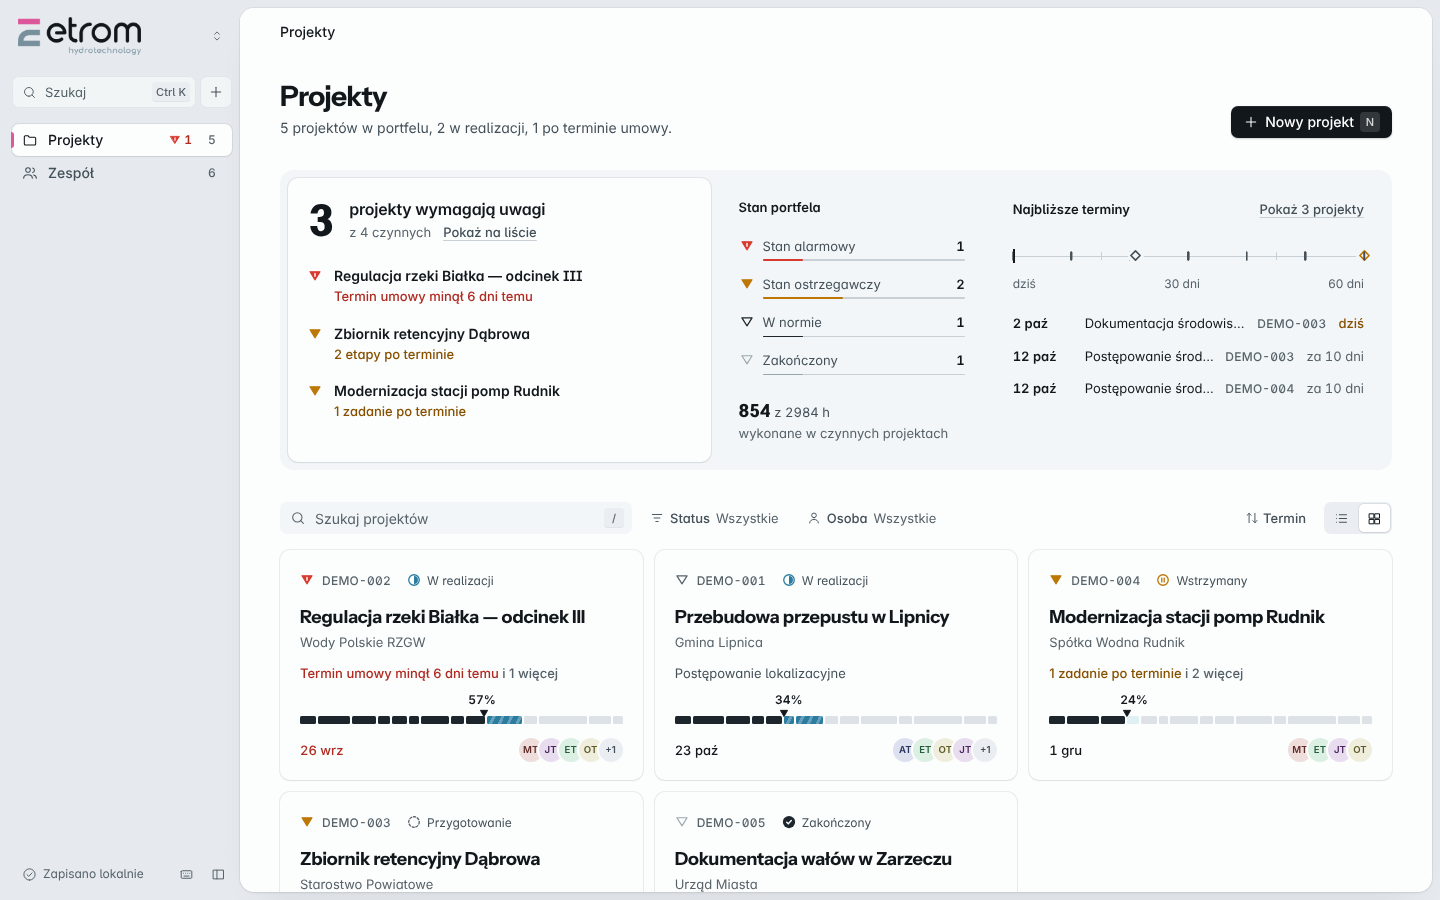
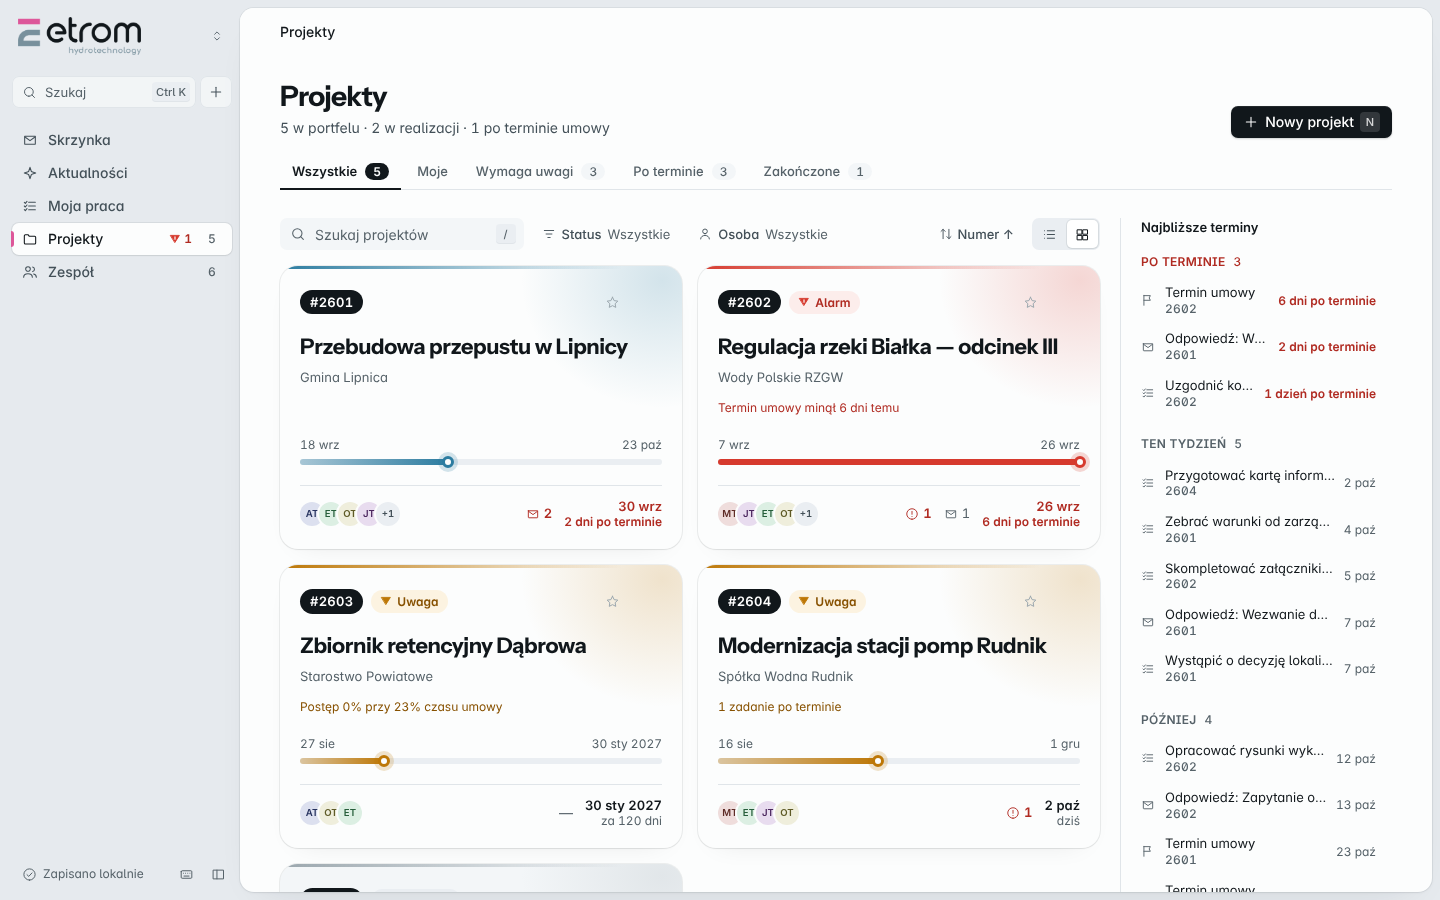
Karty projektów: plakietka numeru, poświata stanu, wstęga czasu umowy, stos awatarów, gwiazdka
Claude-Session: https://claude.ai/code/session_01K4hy1AbaUhrYWgauQ4MMbV

diff --git a/src/ui/projectList.js b/src/ui/projectList.js
@@ -297,15 +297,33 @@
 
   /* ---------- Karty ---------- */
 
+  /** Wstęga czasu umowy: od założenia projektu do terminu, ze znacznikiem „dziś”. */
+  function timeRibbon(project, now) {
+    var start = Date.parse(project.createdAt || '');
+    var end = Date.parse(project.deadline || '');
+    if (!Number.isFinite(start) || !Number.isFinite(end) || end <= start) return null;
+    var pct = Math.max(0, Math.min(100, ((now.getTime() - start) / (end - start)) * 100));
+    var late = now.getTime() > end && project.status !== 'done';
+    return D.el('div', { class: 'pc-ribbon' + (late ? ' is-late' : ''), attrs: { 'data-tooltip': 'Upłynęło ' + Math.round(pct) + '% czasu umowy' } }, [
+      D.el('div', { class: 'pc-ribbon__dates t-num' }, [D.el('span', { text: F.date(project.createdAt.slice(0, 10)) }), D.el('span', { text: F.date(project.deadline) })]),
+      D.el('div', { class: 'pc-ribbon__track' }, [
+        D.el('span', { class: 'pc-ribbon__fill', style: { width: pct + '%' } }),
+        D.el('span', { class: 'pc-ribbon__now', style: { left: pct + '%' } })
+      ])
+    ]);
+  }
+
   function card(project, ctx, now) {
     var health = Insight.health(project, now);
-    var hidden = ctx.state.prefs.hiddenColumns || [];
     var risk = health.level === 'alarm' || health.level === 'warning';
-    var leader = Team.findPerson(ctx.people, project.team && project.team.leader);
     var done = project.status === 'done';
+    var pinned = ctx.actions.isPinned && ctx.actions.isPinned(project.id);
+    var team = Team.projectPeople(project.team).map(function (id) { return Team.findPerson(ctx.people, id); }).filter(Boolean);
+    var leaderId = project.team && project.team.leader;
+    team.sort(function (a, b) { return (b.id === leaderId) - (a.id === leaderId); });
 
     return D.el('article', {
-      class: 'pcard pf-card project level-' + health.level + (done ? ' is-closed' : ''),
+      class: 'pcard pf-card pc project level-' + health.level + (done ? ' is-closed' : ''),
       dataset: { projectCode: project.code, projectId: project.id },
       on: {
         click: function (event) {
@@ -314,19 +332,21 @@
         }
       }
     }, [
-      D.el('div', { class: 'pcard__top' }, [
-        Sig.datum(health.level),
-        D.el('span', { class: 'code pf-num' , text: project.code }),
+      D.el('div', { class: 'pc__top' }, [
+        D.el('span', { class: 'pc__num t-num', text: '#' + project.code }),
+        risk ? D.el('span', { class: 'pc__state pc__state--' + health.level }, [Sig.datum(health.level, { size: 12, label: false }), D.el('span', { text: health.level === 'alarm' ? 'Alarm' : 'Uwaga' })]) : (done ? D.el('span', { class: 'pc__state pc__state--done', text: 'Zakończony' }) : null),
         D.el('span', { class: 'pcard__spacer' }),
+        ctx.actions.togglePin ? UI.iconButton({ icon: 'star', label: pinned ? 'Odepnij z panelu' : 'Przypnij w panelu', size: 'sm', class: 'pc__star' + (pinned ? ' is-on' : ''), attrs: { 'aria-pressed': String(!!pinned) }, onClick: function () { ctx.actions.togglePin(project.id); } }) : null,
         moreButton(project, ctx.actions, 'pcard__more')
       ]),
-      D.el('h3', { class: 'pcard__name' }, [
+      D.el('h3', { class: 'pc__name' }, [
         D.el('a', { class: 'project-link clamp-2', text: project.name, attrs: { href: projectHref(project), 'data-fk': 'open-' + project.id }, dataset: { projectTitle: project.id } })
       ]),
-      D.el('p', { class: 'pcard__client truncate', text: hidden.indexOf('client') < 0 ? (project.client || 'Bez zamawiającego') : '' }),
-      risk ? D.el('p', { class: 'pf-reason pf-reason--' + health.level + ' pcard__reason', text: health.reasons[0].text }) : null,
-      D.el('div', { class: 'pcard__foot' }, [
-        leader ? D.el('span', { class: 'pf-card__lead' }, [Avatar.avatar(leader, { size: 'xs' }), D.el('span', { class: 'truncate', text: shortName(leader) })]) : D.el('span', { class: 't-muted', text: 'Bez lidera' }),
+      D.el('p', { class: 'pc__client truncate', text: project.client || 'Bez zamawiającego' }),
+      risk ? D.el('p', { class: 'pf-reason pf-reason--' + health.level + ' pc__reason', text: health.reasons[0].text }) : null,
+      timeRibbon(project, now),
+      D.el('div', { class: 'pc__foot' }, [
+        team.length ? Avatar.avatarStack(team, { max: 4, size: 'sm' }) : D.el('span', { class: 't-muted', text: 'Bez zespołu' }),
         D.el('span', { class: 'pcard__spacer' }),
         signalsCell(project, ctx, now),
         dueCell(project, ctx, now)
@@ -338,7 +358,9 @@
     var now = new Date();
     var groupBy = ctx.state.prefs.groupBy || 'none';
     if (groupBy === 'none') {
-      return D.el('div', { class: 'pcard-grid' }, visible.map(function (project) { return card(project, ctx, now); }));
+      var pins = (ctx.state.prefs.pinned || []);
+      var ordered = visible.filter(function (p) { return pins.indexOf(p.id) >= 0; }).concat(visible.filter(function (p) { return pins.indexOf(p.id) < 0; }));
+      return D.el('div', { class: 'pcard-grid' }, ordered.map(function (project) { return card(project, ctx, now); }));
     }
     var groups = {};
     visible.forEach(function (p) {

diff --git a/styles/portfolio.css b/styles/portfolio.css
@@ -124,3 +124,57 @@
 .pf-rail__row b { color: var(--ink); font-weight: 600; }
 .pf-rail__note { margin: var(--space-1) 0 0; font-size: var(--fs-xs); color: var(--ink-3); }
 #view-projects { gap: var(--space-4); }
+
+/* ---------- Karty projektów: wersja „żywa” ---------- */
+.pcard-grid { grid-template-columns: repeat(auto-fill, minmax(min(100%, 21rem), 1fr)); gap: var(--space-4); }
+.pc {
+  --pc-accent: var(--flow);
+  position: relative; overflow: hidden; isolation: isolate;
+  display: flex; flex-direction: column; gap: var(--space-2);
+  min-height: 15.5rem; padding: var(--space-5);
+  border: 0; border-radius: 18px; background: var(--sheet);
+  box-shadow: var(--elev-lift), 0 10px 28px -20px var(--shadow-tint);
+  transition: transform .22s cubic-bezier(.2,.8,.2,1), box-shadow .22s;
+}
+.pc::before { /* poświata stanu w rogu */
+  content: ""; position: absolute; z-index: -1; inset: -40% -30% auto auto; width: 70%; height: 90%;
+  background: radial-gradient(closest-side, color-mix(in srgb, var(--pc-accent) 22%, transparent), transparent);
+  opacity: .9; pointer-events: none;
+}
+.pc::after { /* pasek stanu przy górnej krawędzi */
+  content: ""; position: absolute; inset: 0 0 auto 0; height: 3px; background: linear-gradient(90deg, var(--pc-accent), transparent 85%);
+}
+.pc.level-alarm { --pc-accent: var(--alarm); }
+.pc.level-warning { --pc-accent: var(--warn); }
+.pc.is-closed { --pc-accent: var(--ink-4); }
+.pc:hover { transform: translateY(-4px); box-shadow: var(--elev-hover), 0 22px 40px -22px var(--shadow-tint); }
+.pc.level-alarm, .pc.level-warning { border: 0; }
+
+.pc__top { display: flex; align-items: center; gap: var(--space-2); min-height: 2rem; }
+.pc__num { display: inline-flex; padding: 3px 10px; border-radius: var(--radius-full); background: var(--ink); color: var(--on-ink); font-weight: 600; font-size: var(--fs-sm); letter-spacing: .02em; }
+.pc__state { display: inline-flex; align-items: center; gap: 5px; padding: 3px 9px; border-radius: var(--radius-full); font-size: var(--fs-xs, .75rem); font-weight: 600; }
+.pc__state--alarm { background: var(--alarm-wash); color: var(--alarm-ink); }
+.pc__state--warning { background: var(--warn-wash); color: var(--warn-ink); }
+.pc__state--done { background: var(--wash-2); color: var(--ink-3); }
+.pc__star { color: var(--ink-4); }
+.pc__star:hover { color: var(--warn); }
+.pc__star.is-on { color: var(--warn); }
+.pc__star.is-on svg { fill: currentColor; }
+.pc__name { margin: var(--space-2) 0 0; font-family: var(--font-display); font-size: 1.35rem; line-height: 1.2; font-weight: 650; letter-spacing: -0.015em; }
+.pc__client { margin: 0; color: var(--ink-3); font-size: var(--fs-sm); }
+.pc__reason { margin: var(--space-1) 0 0; }
+
+.pc-ribbon { margin-top: auto; padding-top: var(--space-3); display: grid; gap: 6px; }
+.pc-ribbon__dates { display: flex; justify-content: space-between; font-size: var(--fs-xs, .75rem); color: var(--ink-3); }
+.pc-ribbon__track { position: relative; height: 6px; border-radius: 99px; background: var(--wash-2); }
+.pc-ribbon__fill { position: absolute; inset: 0 auto 0 0; border-radius: 99px; background: linear-gradient(90deg, color-mix(in srgb, var(--pc-accent) 35%, transparent), var(--pc-accent)); }
+.pc-ribbon__now { position: absolute; top: 50%; width: 12px; height: 12px; margin: -6px 0 0 -6px; border-radius: 50%; background: var(--sheet); border: 3px solid var(--pc-accent); box-shadow: 0 0 0 4px color-mix(in srgb, var(--pc-accent) 20%, transparent); }
+.pc-ribbon.is-late .pc-ribbon__fill { background: var(--alarm); }
+
+.pc__foot { display: flex; align-items: center; gap: var(--space-3); margin-top: var(--space-3); padding-top: var(--space-3); border-top: 1px solid var(--line); }
+.pc .avatars { display: inline-flex; }
+.pc .avatars .avatar { box-shadow: 0 0 0 2px var(--sheet); }
+.pc .avatars .avatar + .avatar { margin-left: -5px; }
+.pc .pf-due { text-align: right; }
+.pc .pf-due__date { font-weight: 600; }
+@media (prefers-reduced-motion: reduce) { .pc, .pc:hover { transition: none; transform: none; } }

diff --git a/src/ui/icons.js b/src/ui/icons.js
@@ -53,6 +53,7 @@
 
     // Działania
     plus: ['M12 5v14', 'M5 12h14'],
+    star: ['m12 3.6 2.6 5.4 5.9.8-4.3 4.1 1 5.9L12 17l-5.2 2.8 1-5.9L3.5 9.8l5.9-.8L12 3.6Z'],
     search: ['M11 18a7 7 0 1 0 0-14 7 7 0 0 0 0 14Z', 'm20 20-4-4'],
     close: ['M6.5 6.5l11 11', 'M17.5 6.5l-11 11'],
     more: ['M5.5 12h.01', 'M12 12h.01', 'M18.5 12h.01'],
